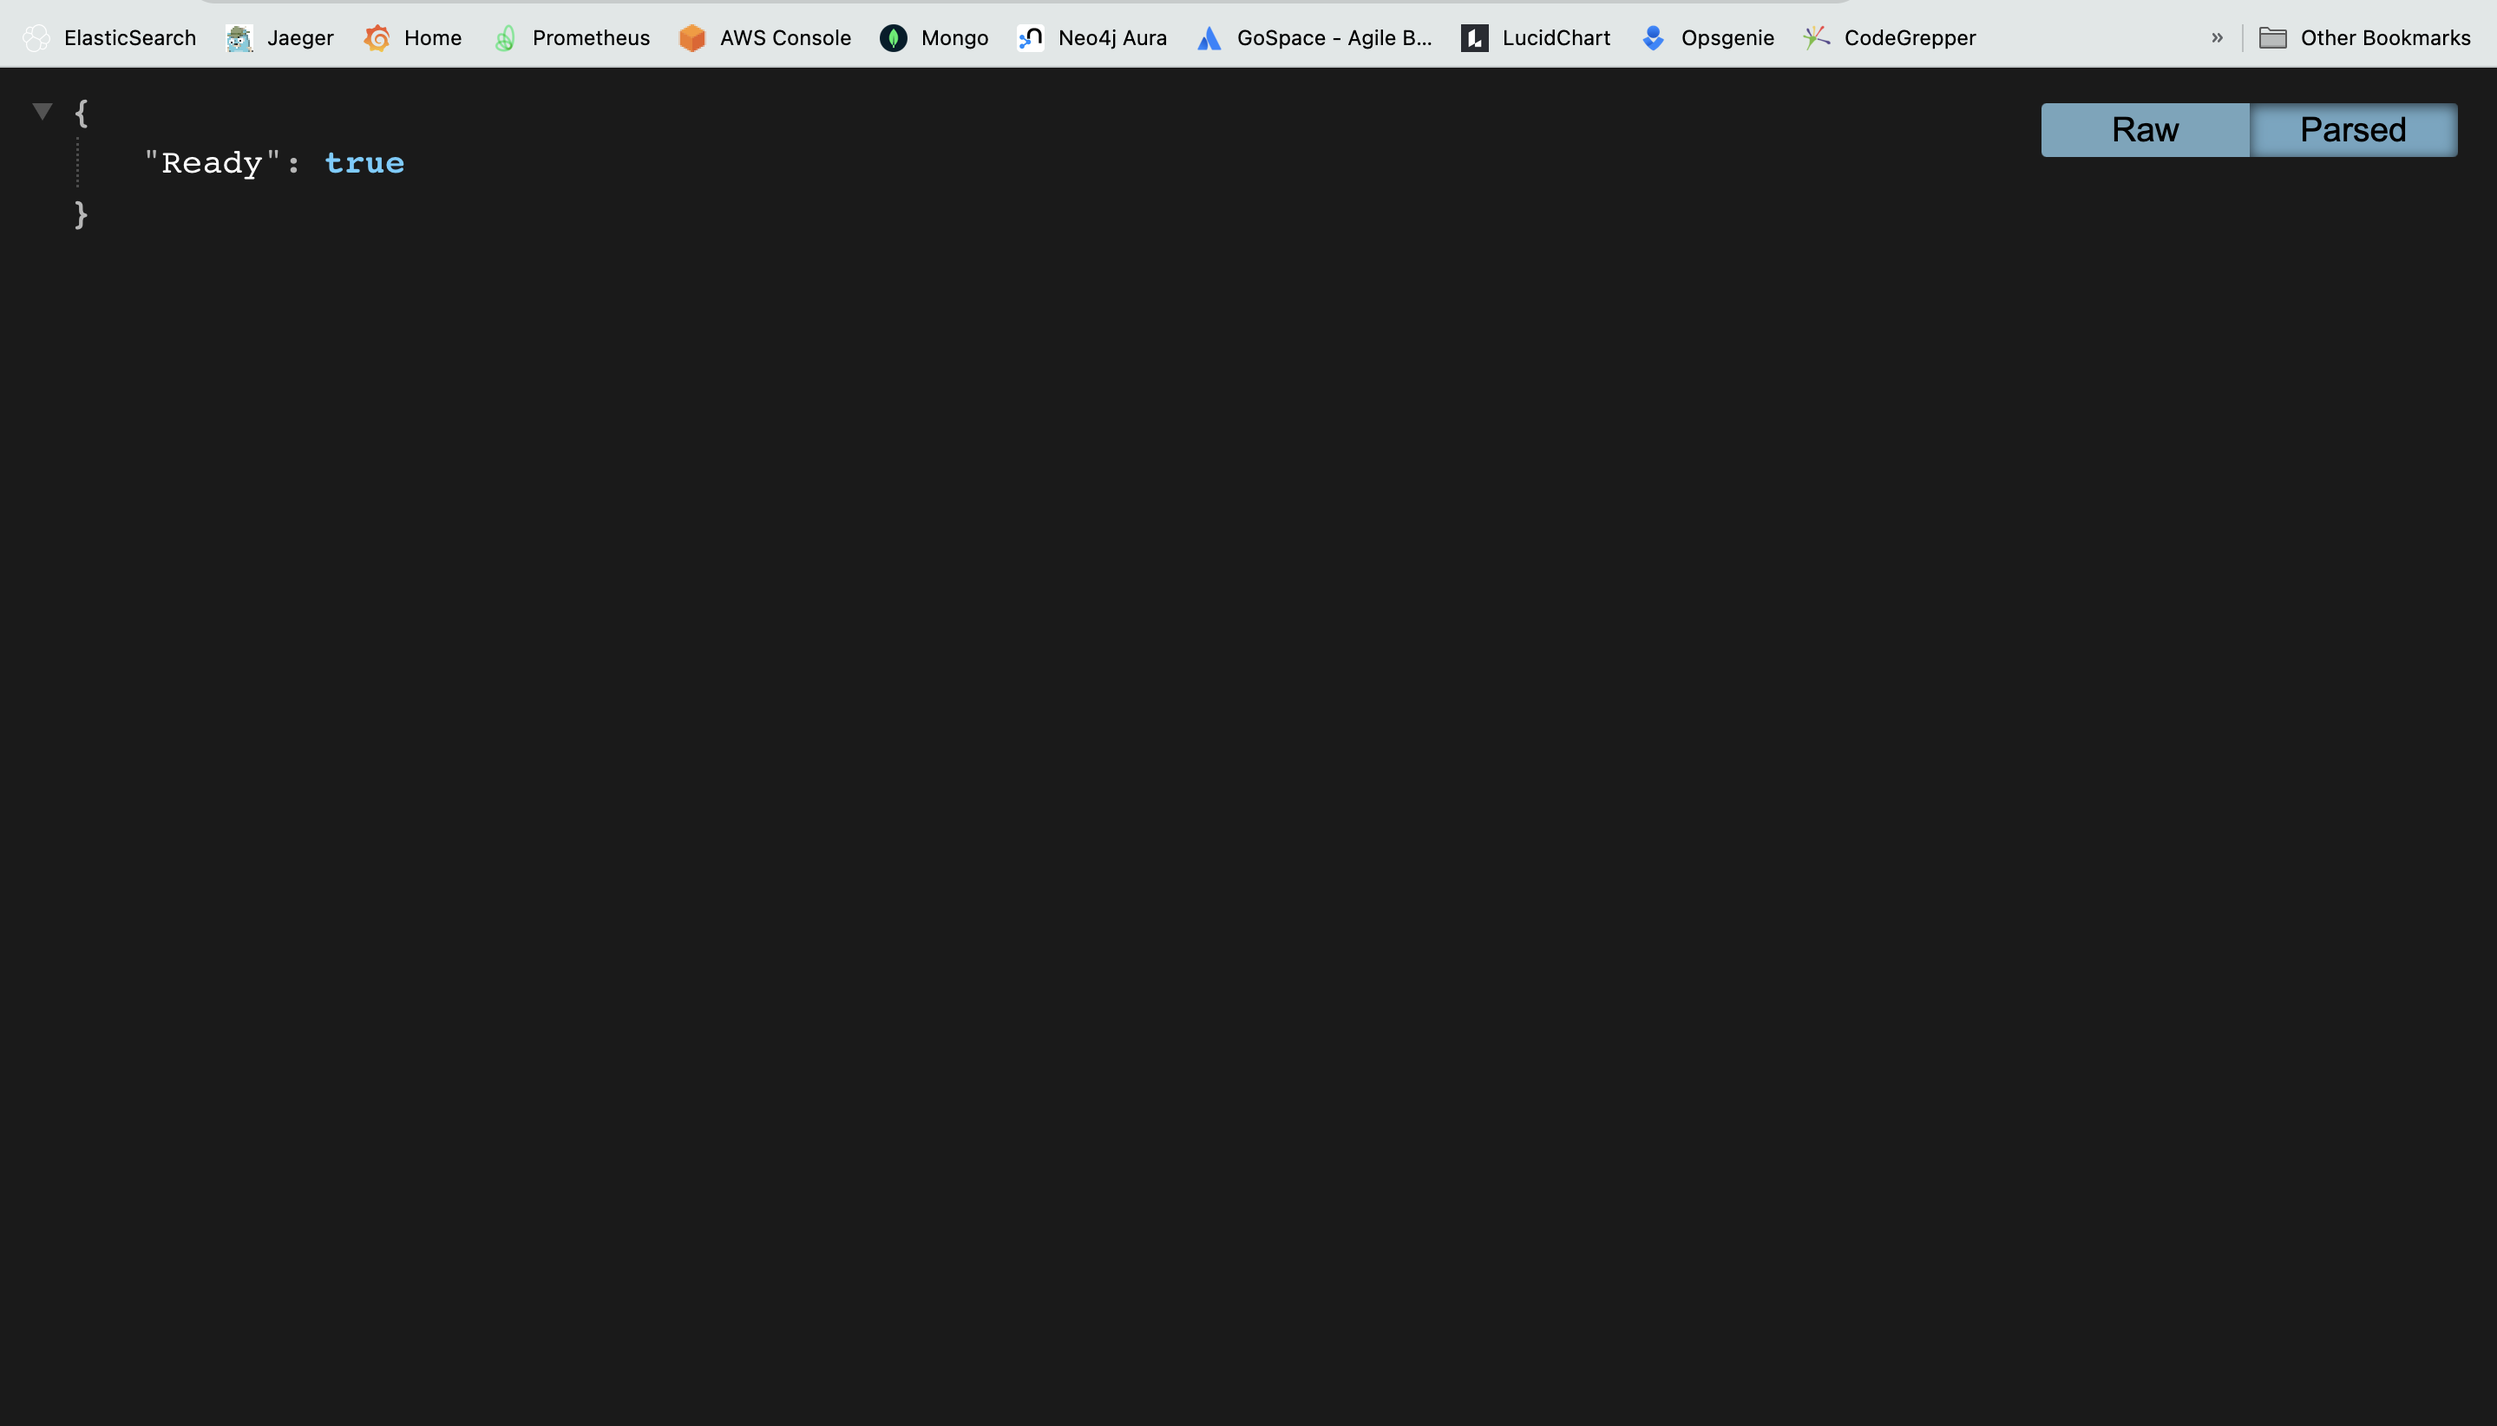
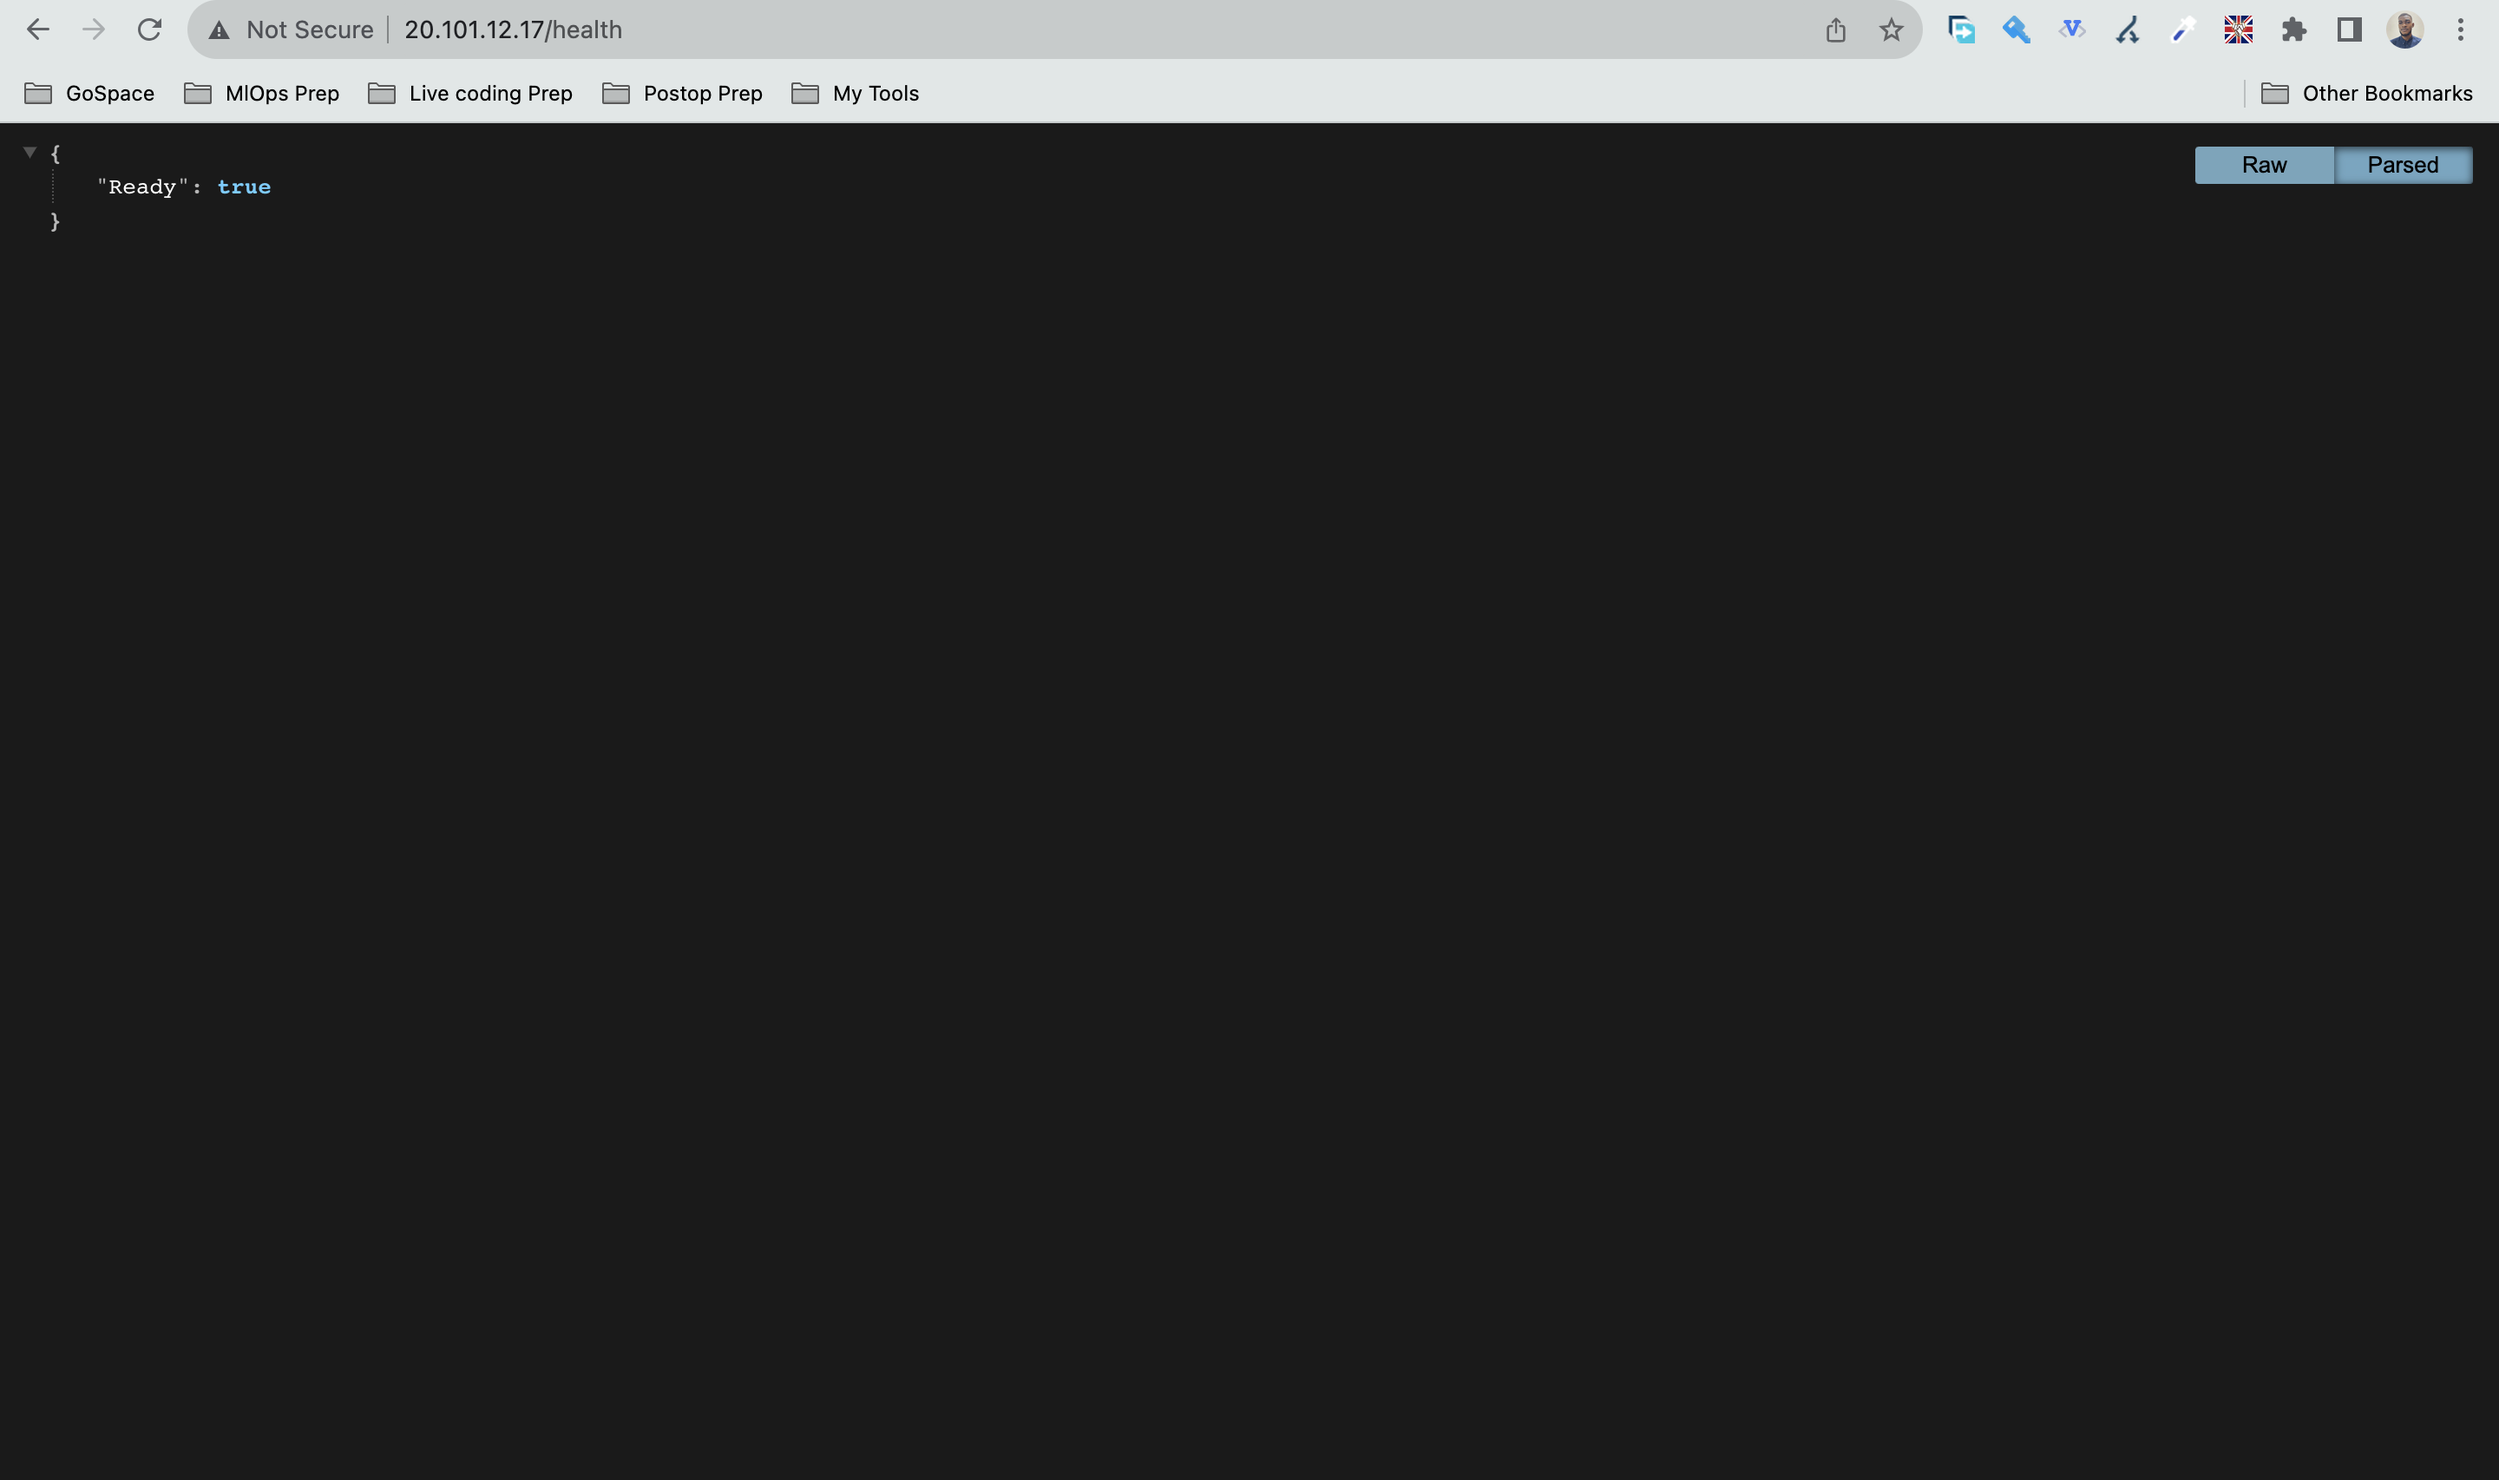
update the code

Changed region(s): [[0.0, 0.0, 1.0, 0.1241], [0.0309, 0.1241, 0.0618, 0.1551]]

diff --git a/README.md b/README.md
@@ -10,20 +10,20 @@ Please follow all the best practices for creating the terraform for your API. - 
 Submit the code within 3 days from the date you were given this test. - Done (Submitted in less than a day)
 
 ### API Structure
-The url of the API is http://20.76.7.0/ (please note that this is a HTTP url , not https)
+The url of the API is http://20.101.12.17/ (please note that this is a HTTP url , not https)
 
 The API was deployed on kubernetes runing on Azure (AKS)
 
-Here are some sample requests to interact with the API
+Here are some sample requests to interact with the CRUD API
 
 ##### GET All Items:
 ```
-curl -X GET http://20.76.7.0/items
+curl -X GET http://20.101.12.17/items
 ```
 
 ##### GET One Item:
 ```
-curl -X GET http://20.76.7.0/items/1
+curl -X GET http://20.101.12.17/items/1
 ```
 
 ##### Create One Item:
@@ -31,7 +31,7 @@ curl -X GET http://20.76.7.0/items/1
 curl -X POST \
   -H "Content-Type: application/json" \
   -d '{"name": "New Item", "description": "A new item description"}' \
-  http://20.76.7.0/items
+  http://20.101.12.17/items
 ```
 
 ##### Update One Item:
@@ -39,12 +39,12 @@ curl -X POST \
 curl -X PUT \
   -H "Content-Type: application/json" \
   -d '{"name": "Updated Item", "description": "Updated item description"}' \
-  http://20.76.7.0/items/1
+  http://20.101.12.17/items/1
 ```
 
 ##### Delete One Item:
 ```
-curl -X DELETE http://20.76.7.0/items/1
+curl -X DELETE http://20.101.12.17/items/1
 ```
 ### Gitops
 For GitOps , i used ArgoCD . 
@@ -53,11 +53,11 @@ The `setup.sh` was used to setup argocd and create the required namespaces local
 
 Argo CD is a Kubernetes controller, responsible for continuously monitoring all running applications and comparing their live state to the desired state specified in the Git repository.
 
-The Argocd Server  can be reached here https://20.23.62.190/applications (please note that this is on Https)
+The Argocd Server  can be reached here https://20.101.8.136/applications (please note that this is on Https)
 
-- Argocd Server : https://20.23.62.190/applications
+- Argocd Server : https://20.101.8.136/applications
 - Argocd Username : admin
-- Argocd Password : V7lBR4nxMYMrEC6Q
+- Argocd Password : rZmXdj4zCZfVU3HJ
 
 ![Screenshot](screenshots/argocd.png)
 
@@ -97,7 +97,7 @@ https://hub.docker.com/repository/docker/alsaheem/flask-mongo-api/general
 ### API Documentation on Postman
 Documentation on how to ru the API was added on Postman
 
-https://documenter.getpostman.com/view/8590260/2s9Y5Zvh1C
+https://documenter.getpostman.com/view/8590260/2s9YBz3FFq
 
 ![Screenshot](screenshots/postman.png)
 
@@ -109,7 +109,7 @@ Screenshots of the Home page and Health page of the API
 ![Screenshot](screenshots/api-health.png)
 
 #### TODO (other things i would have done)
-- Setup Ingress with nginx
+- Setup Ingress with nginx ingress controller
 - Setup Image updater with ArgoCD (for automatically pulling images)
 - Store docker images on ACR
 - Connect a domain for this
